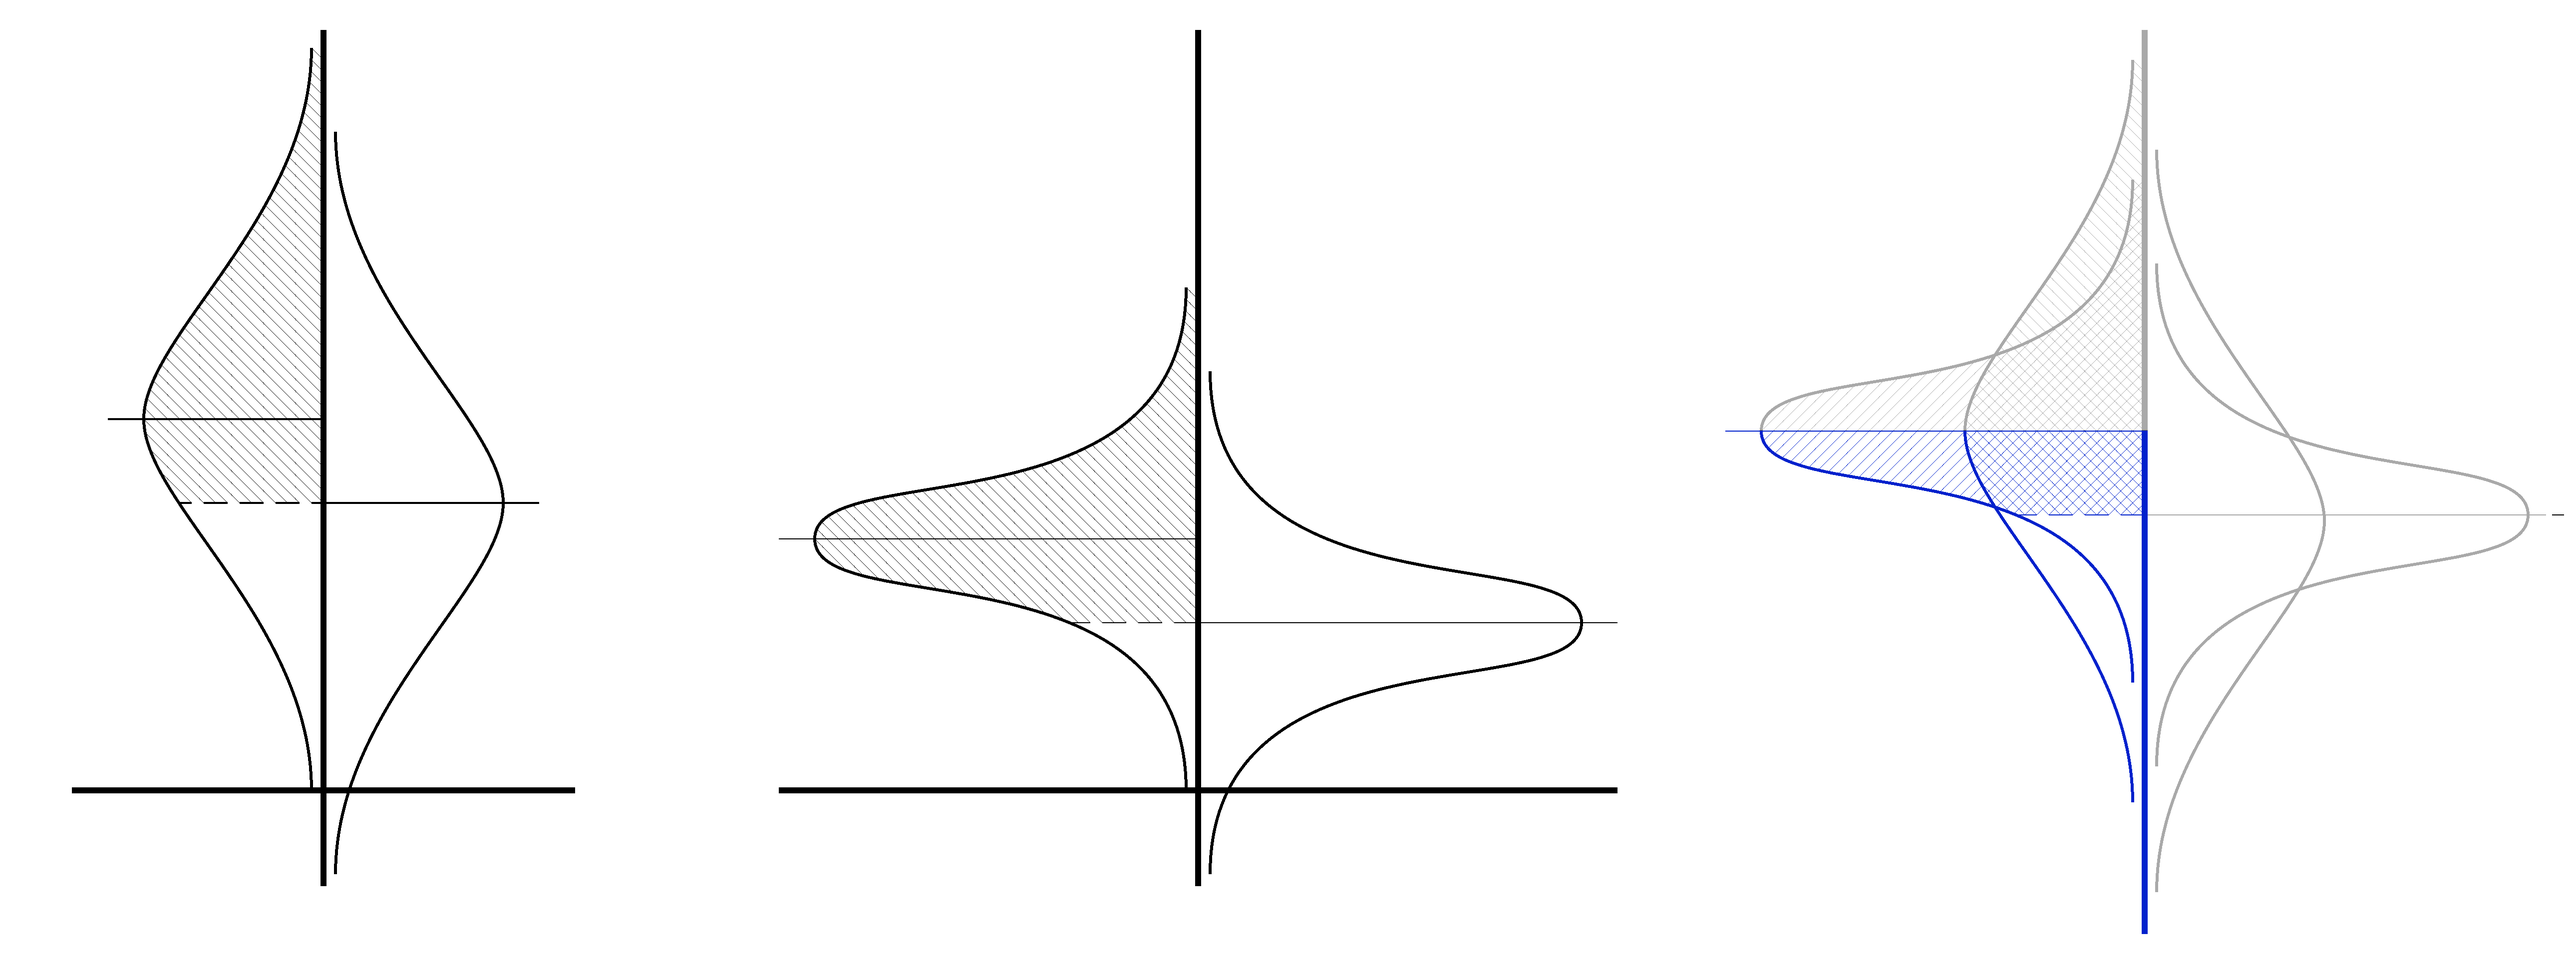
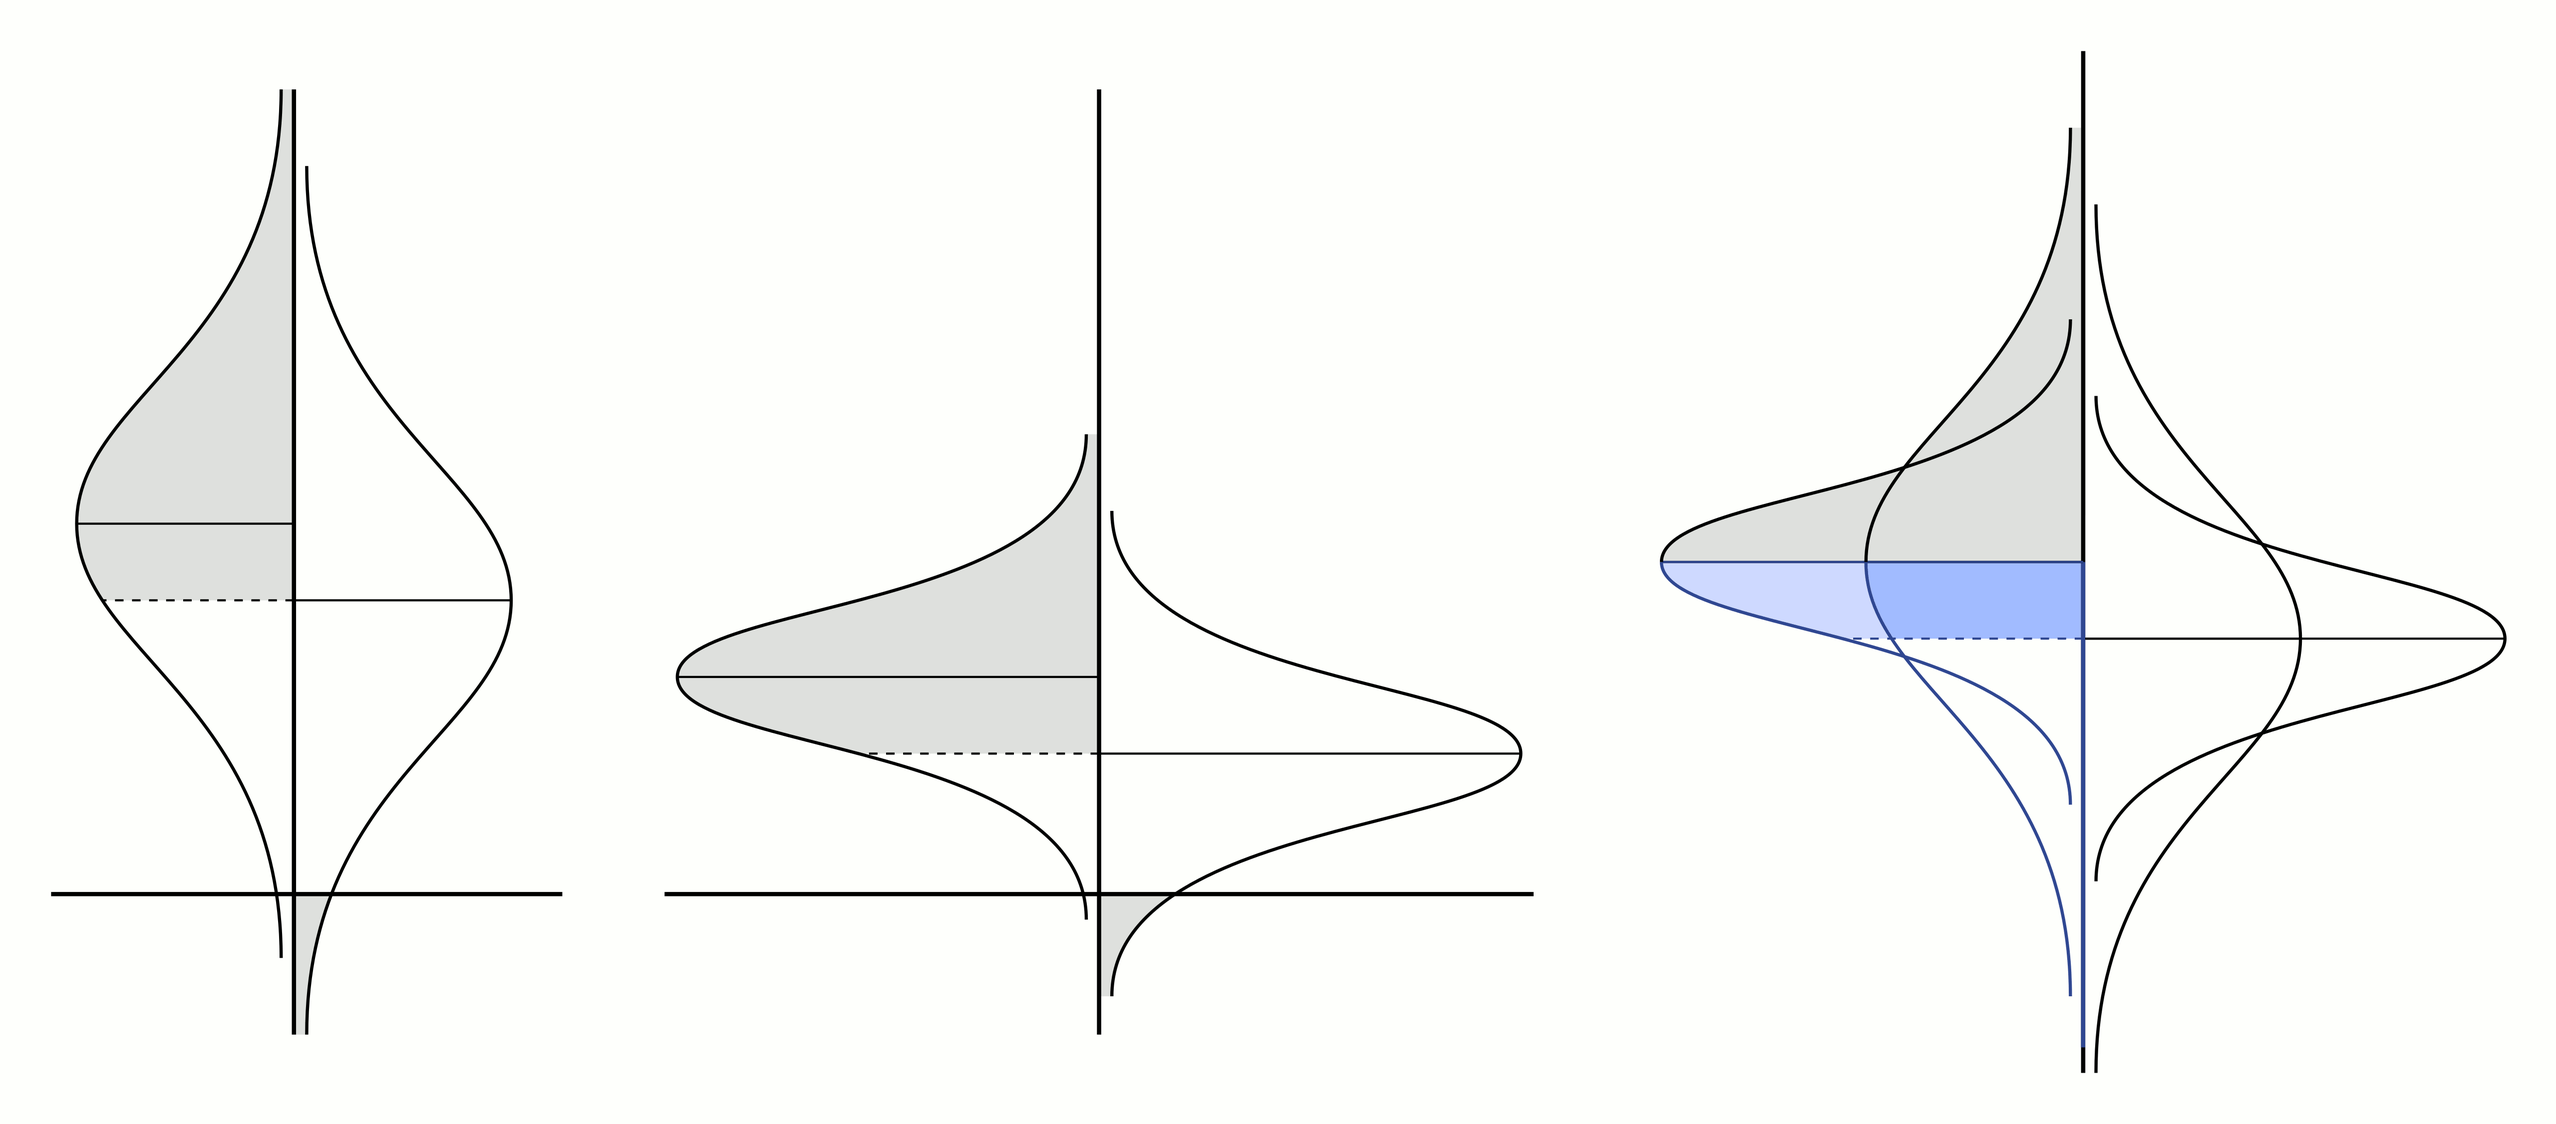
One new SVG; two PNGs generated from SVGs.

diff --git a/pages/sideways-stats.html b/pages/sideways-stats.html
@@ -154,7 +154,7 @@
         <p>The height of the line that bisects the sample probability curve is the <i>effect size</i> of the analysis, a.k.a., the population correlation.</p>
         <p>In general, a larger sample size will give you a larger statistical power. Think of it this way: if the two bisecting lines (the sample and population correlations) are a great distance apart, then even if the probability curves are wide and low, there will be a large area that's between the bisection lines. But if the two lines are close together, the probability curves will need to be very tight in order to find a large area between the two bisecting lines. See the next example graphic, (figure 13).</p>
         <div class="w5160">
-          <img src="images/large/N-impact-on-power-overlapped.png" alt="Figure 13: Impact of sample size on statistical power" />
+          <img src="./images/large/N-impact-on-power-overlapped.svg" onerror="this.onerror=null; this.src='images/large/N-impact-on-power-overlapped.png'" alt="Figure 13: Impact of sample size on statistical power" />
           <p>Figure 13</p>
         </div>
         <p>Now that we've gone through the four characteristics and how they're related, we can apply them to our understanding of the two types of error associated linear regressions and null hypothesis significance testing.</p>

diff --git a/pages/example-graphics.html b/pages/example-graphics.html
@@ -64,7 +64,7 @@
             <p>Larger <em>sample sizes</em> have tighter probability curves, so the minimum correlation that is statistically significant becomes lower.</p>
           </div>
           <div class="w5160">
-            <img src="./images/large/N-impact-on-power-overlapped.png" alt="N-impact-on-power-overlapped" />
+            <img src="./images/large/N-impact-on-power-overlapped.svg" onerror="this.onerror=null; this.src='images/large/N-impact-on-power-overlapped.png'" alt="N-impact-on-power-overlapped" />
             <p>Larger <em>sample sizes</em> have tighter probability curves, so the <em>statistical power</em> increases. The area of the overlapped graphs that is blue is where the increase in <em>statistical power</em> happens.</p>
           </div>
         </section>
